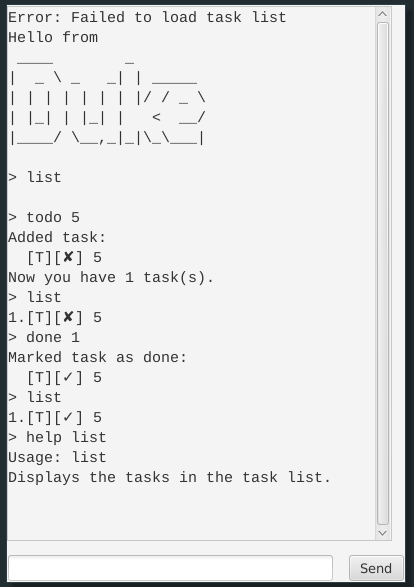
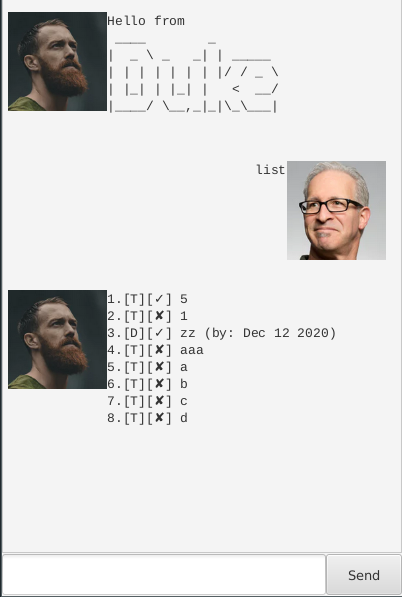
Implement JavaFX Tutorial 4 UI The GUI of Duke now corresponds to that of [https://github.com/nus-cs2103-AY1920S2/duke/blob/master/tutorials/javaFxTutorialPart4.md](Tutorial 4).

diff --git a/src/main/java/duke/ui/Gui.java b/src/main/java/duke/ui/Gui.java
@@ -9,6 +9,8 @@ import duke.exceptions.DukeException;
 import duke.util.PrintUtil;
 
 import java.util.ArrayList;
+import java.io.IOException;
+import java.lang.UnsupportedOperationException;
 
 import javafx.application.Application;
 import javafx.scene.Scene;
@@ -20,7 +22,9 @@ import javafx.scene.layout.VBox;
 import javafx.scene.control.TextField;
 import javafx.scene.control.Button;
 import javafx.scene.layout.AnchorPane;
-import javafx.scene.text.Font;
+
+import javafx.fxml.FXMLLoader;
+
 
 /**
  * Encapsulates a graphical user interface (GUI) frontend of Duke.
@@ -30,11 +34,9 @@ import javafx.scene.text.Font;
  */
 public class Gui implements Ui {
     private Stage stage;
-    private VBox dialogContainer;
-    private TextField userInput;
+    private MainWindow mainWindow;
     private Duke duke;
     private boolean isClosed = false;
-    private Font font = new Font("Liberation Mono", 15.0);
     private ArrayList<Message> messageBuffer;
     
     /**
@@ -50,93 +52,30 @@ public class Gui implements Ui {
     }
     
     /**
-     * Creates a label with the specified text and adds it to the dialog container.
-     * @param text String containing text to add
-     * @return a label with the specified text that has word wrap enabled.
-     */
-    private Label getDialogLabel(String text) {
-        Label textToAdd = new Label(text);
-        textToAdd.setWrapText(true);
-        textToAdd.setFont(font);
-
-        return textToAdd;
-    }
-    
-    /**
      * Receives control of the JavaFX `Application` from `Duke`.
      * Sets up GUI components and callbacks, then runs the event loop until termination.
      * @param stage `Stage` object received from `Duke#start`
      */
     public void start(Stage stage) {
-        assert stage != null; //Precondition: `stage` is not null
-        
         this.stage = stage;
-        
-        //Step 1. Formatting the window to look as expected.
-        
-        //The container for the content of the chat to scroll.
-        ScrollPane scrollPane = new ScrollPane();
-        dialogContainer = new VBox();
-        scrollPane.setContent(dialogContainer);
-
-        userInput = new TextField();
-        Button sendButton = new Button("Send");
-
-        AnchorPane mainLayout = new AnchorPane();
-        mainLayout.getChildren().addAll(scrollPane, userInput, sendButton);
-
-        Scene scene = new Scene(mainLayout);
-
-        stage.setScene(scene);
-        stage.show();
-
-        //Step 2. Formatting the window to look as expected
-        stage.setTitle("Duke");
-        //stage.setResizable(false);
         stage.setMinHeight(600.0);
         stage.setMinWidth(400.0);
+        try {
+            FXMLLoader fxmlLoader = new FXMLLoader(Duke.class.getResource("/view/MainWindow.fxml"));
+            AnchorPane ap = fxmlLoader.load();
+            Scene scene = new Scene(ap);
+            stage.setScene(scene);
+            stage.show();
+            mainWindow = fxmlLoader.<MainWindow>getController();
+            mainWindow.setGui(this);
+        } catch (IOException e) {
+            e.printStackTrace();
+        }
         
-        mainLayout.setPrefSize(400.0, 600.0);
-        
-        scrollPane.setPrefSize(385, 535);
-        scrollPane.setHbarPolicy(ScrollPane.ScrollBarPolicy.NEVER);
-        scrollPane.setVbarPolicy(ScrollPane.ScrollBarPolicy.ALWAYS);
-        
-        scrollPane.setVvalue(1.0);
-        scrollPane.setFitToWidth(true);
-        scrollPane.setFitToHeight(true);
-        
-        // You will need to import `javafx.scene.layout.Region` for this. 
-        dialogContainer.setPrefHeight(Region.USE_COMPUTED_SIZE);
-        
-        userInput.setPrefWidth(325.0);
-        
-        sendButton.setPrefWidth(55.0);
-        
-        AnchorPane.setTopAnchor(scrollPane, 1.0);
-        
-        AnchorPane.setRightAnchor(sendButton, 1.0);
-        AnchorPane.setBottomAnchor(sendButton, 1.0);
-        
-        AnchorPane.setLeftAnchor(userInput, 1.0);
-        AnchorPane.setBottomAnchor(userInput, 1.0);
-
-
         //Step 3. Add functionality to handle user input.
         startMessage();
         showGreeting();
-        endMessage();
-        
-        sendButton.setOnMouseClicked((event) -> {
-            duke.processCommand(readCommandString());
-        });
-
-        userInput.setOnAction((event) -> {
-            duke.processCommand(readCommandString());
-        });
-        
-        //Scroll down to the end every time dialogContainer's height changes.
-        dialogContainer.heightProperty().addListener((observable) -> scrollPane.setVvalue(1.0));
+        messageBuffer.add(new Message(endMessage()));
         
         //Finally, add pending messages to the `dialogContainer`.
         processMessageBuffer();
@@ -150,26 +89,20 @@ public class Gui implements Ui {
     
     /**
      * Denotes the end of a new message to be printed.
+     * @return Completed message
      */
-    public void endMessage() {
+    public String endMessage() {
         String buffer = PrintUtil.flushBuffer();
-        messageBuffer.add(new Message(String.format("%s", buffer)));
-        
-        if (this.stage != null) {
-            processMessageBuffer();
-        }
+        return String.format("%s", buffer);
     }
 
-    private void displayMessage(Message message) {
-        assert stage != null && dialogContainer != null;
-        
-        Label label = getDialogLabel(message.text);
-        dialogContainer.getChildren().add(label);
+    protected String getResponse(String input) {
+        return duke.processCommand(input);
     }
 
     private void processMessageBuffer() {
         for (Message m : messageBuffer) {
-            displayMessage(m);
+            mainWindow.displayDukeMessage(m.text);
         }
         messageBuffer.clear();
     }
@@ -179,10 +112,7 @@ public class Gui implements Ui {
      * @return command string
      */
     public String readCommandString() {
-        String command = userInput.getText();
-        displayMessage(new Message(String.format("> %s", command)));
-        userInput.clear();
-        return command;
+        throw new UnsupportedOperationException();
     }
     
     /**

diff --git a/src/main/java/duke/ui/MainWindow.java b/src/main/java/duke/ui/MainWindow.java
@@ -1,0 +1,67 @@
+package duke.ui;
+
+import duke.Duke;
+
+import java.io.IOException;
+
+import javafx.fxml.FXML;
+import javafx.scene.Scene;
+import javafx.scene.control.Button;
+import javafx.scene.control.ScrollPane;
+import javafx.scene.control.TextField;
+import javafx.scene.image.Image;
+import javafx.scene.layout.AnchorPane;
+import javafx.scene.layout.VBox;
+
+import javafx.fxml.FXMLLoader;
+
+/**
+ * Controller for MainWindow. Provides the layout for the other controls.
+ */
+public class MainWindow extends AnchorPane {
+    @FXML
+    private ScrollPane scrollPane;
+    @FXML
+    private VBox dialogContainer;
+    @FXML
+    private TextField userInput;
+    @FXML
+    private Button sendButton;
+
+    private Gui gui;
+
+    private Image userImage = new Image(Duke.class.getResourceAsStream("/images/DaUser.png"));
+    private Image dukeImage = new Image(Duke.class.getResourceAsStream("/images/DaDuke.png"));
+    
+    @FXML
+    private void initialize() {
+        //Scroll down to the end every time dialogContainer's height changes.
+        scrollPane.vvalueProperty().bind(dialogContainer.heightProperty());
+        //dialogContainer.heightProperty().addListener((observable) -> scrollPane.setVvalue(1.0));
+    }
+
+    protected void setGui(Gui gui) {
+        this.gui = gui;
+    }
+
+    /**
+     * Creates two dialog boxes, one echoing user input and the other containing Duke's reply and then appends them to
+     * the dialog container. Clears the user input after processing.
+     */
+    @FXML
+    private void handleUserInput() {
+        String input = userInput.getText();
+        String response = gui.getResponse(input);
+        displayUserInput(input);
+        displayDukeMessage(response);
+        userInput.clear();
+    }
+
+    protected void displayUserInput(String input) {
+        dialogContainer.getChildren().add(DialogBox.getUserDialog(input, userImage));
+    }
+    
+    protected void displayDukeMessage(String message) {
+        dialogContainer.getChildren().add(DialogBox.getDukeDialog(message, dukeImage));
+    }
+}

diff --git a/src/main/java/duke/ui/DialogBox.java b/src/main/java/duke/ui/DialogBox.java
@@ -1,0 +1,63 @@
+package duke.ui;
+
+import java.io.IOException;
+import java.util.Collections;
+
+import javafx.collections.FXCollections;
+import javafx.collections.ObservableList;
+import javafx.fxml.FXML;
+import javafx.fxml.FXMLLoader;
+import javafx.geometry.Pos;
+import javafx.scene.Node;
+import javafx.scene.control.Label;
+import javafx.scene.image.Image;
+import javafx.scene.image.ImageView;
+import javafx.scene.layout.HBox;
+
+/**
+ * An example of a custom control using FXML.
+ * This control represents a dialog box consisting of an ImageView to represent the speaker's face and a label
+ * containing text from the speaker.
+ */
+public class DialogBox extends HBox {
+    @FXML
+    private HBox dialogBox;
+    @FXML
+    private Label dialog;
+    @FXML
+    private ImageView displayPicture;
+
+    private DialogBox(String text, Image img) {
+        try {
+            FXMLLoader fxmlLoader = new FXMLLoader(MainWindow.class.getResource("/view/DialogBox.fxml"));
+            fxmlLoader.setController(this);
+            fxmlLoader.setRoot(this);
+            dialogBox = fxmlLoader.load();
+        } catch (IOException e) {
+            e.printStackTrace();
+        }
+
+        dialog.setText(text);
+        displayPicture.setImage(img);
+    }
+
+    /**
+     * Flips the dialog box such that the ImageView is on the left and text on the right.
+     */
+    private void flip() {
+        ObservableList<Node> tmp = FXCollections.observableArrayList(this.getChildren());
+        Collections.reverse(tmp);
+        getChildren().setAll(tmp);
+        setAlignment(Pos.TOP_LEFT);
+    }
+
+    protected static DialogBox getUserDialog(String text, Image img) {
+        return new DialogBox(text, img);
+    }
+
+    protected static DialogBox getDukeDialog(String text, Image img) {
+        var db = new DialogBox(text, img);
+        db.flip();
+        return db;
+    }
+}

diff --git a/src/main/java/duke/Duke.java b/src/main/java/duke/Duke.java
@@ -48,10 +48,11 @@ public class Duke extends Application {
     }
     
     /**
-     * Parses and processes a command string.
+     * Parses and processes a command string, returning the repsonse text.
      * @param command Command string
+     * @return Response text
      */
-    public void processCommand(String command) {
+    public String processCommand(String command) {
         ui.startMessage();
         try {
             Optional<Command> c = new Parser(command).parse();
@@ -65,12 +66,14 @@ public class Duke extends Application {
         } catch (DukeException e) {
             ui.showError(e);
         }
-        ui.endMessage();
+        String response = ui.endMessage();
 
         //We have to move the cleanup code here because `Gui` doesn't use `Duke#run()`
         if (!isRunning) {
             cleanup();
         }
+
+        return response;
     }
     
     protected void cleanup() {

diff --git a/src/main/java/duke/ui/Cli.java b/src/main/java/duke/ui/Cli.java
@@ -36,10 +36,13 @@ public class Cli implements Ui {
     
     /**
      * Denotes the end of a new message to be printed.
+     * @return Completed message
      */
-    public void endMessage() {
+    public String endMessage() {
         PrintUtil.printHeaderLine();
-        System.out.print(PrintUtil.flushBuffer());
+        String message = PrintUtil.flushBuffer();
+        System.out.print(message);
+        return message;
     }
     
     /**

diff --git a/src/main/java/duke/ui/Ui.java b/src/main/java/duke/ui/Ui.java
@@ -22,8 +22,9 @@ public interface Ui {
     
     /**
      * Denotes the end of a new message to be printed.
+     * @return Completed message
      */
-    public void endMessage();
+    public String endMessage();
     
     /**
      * Reads a single-line command string from the user.
